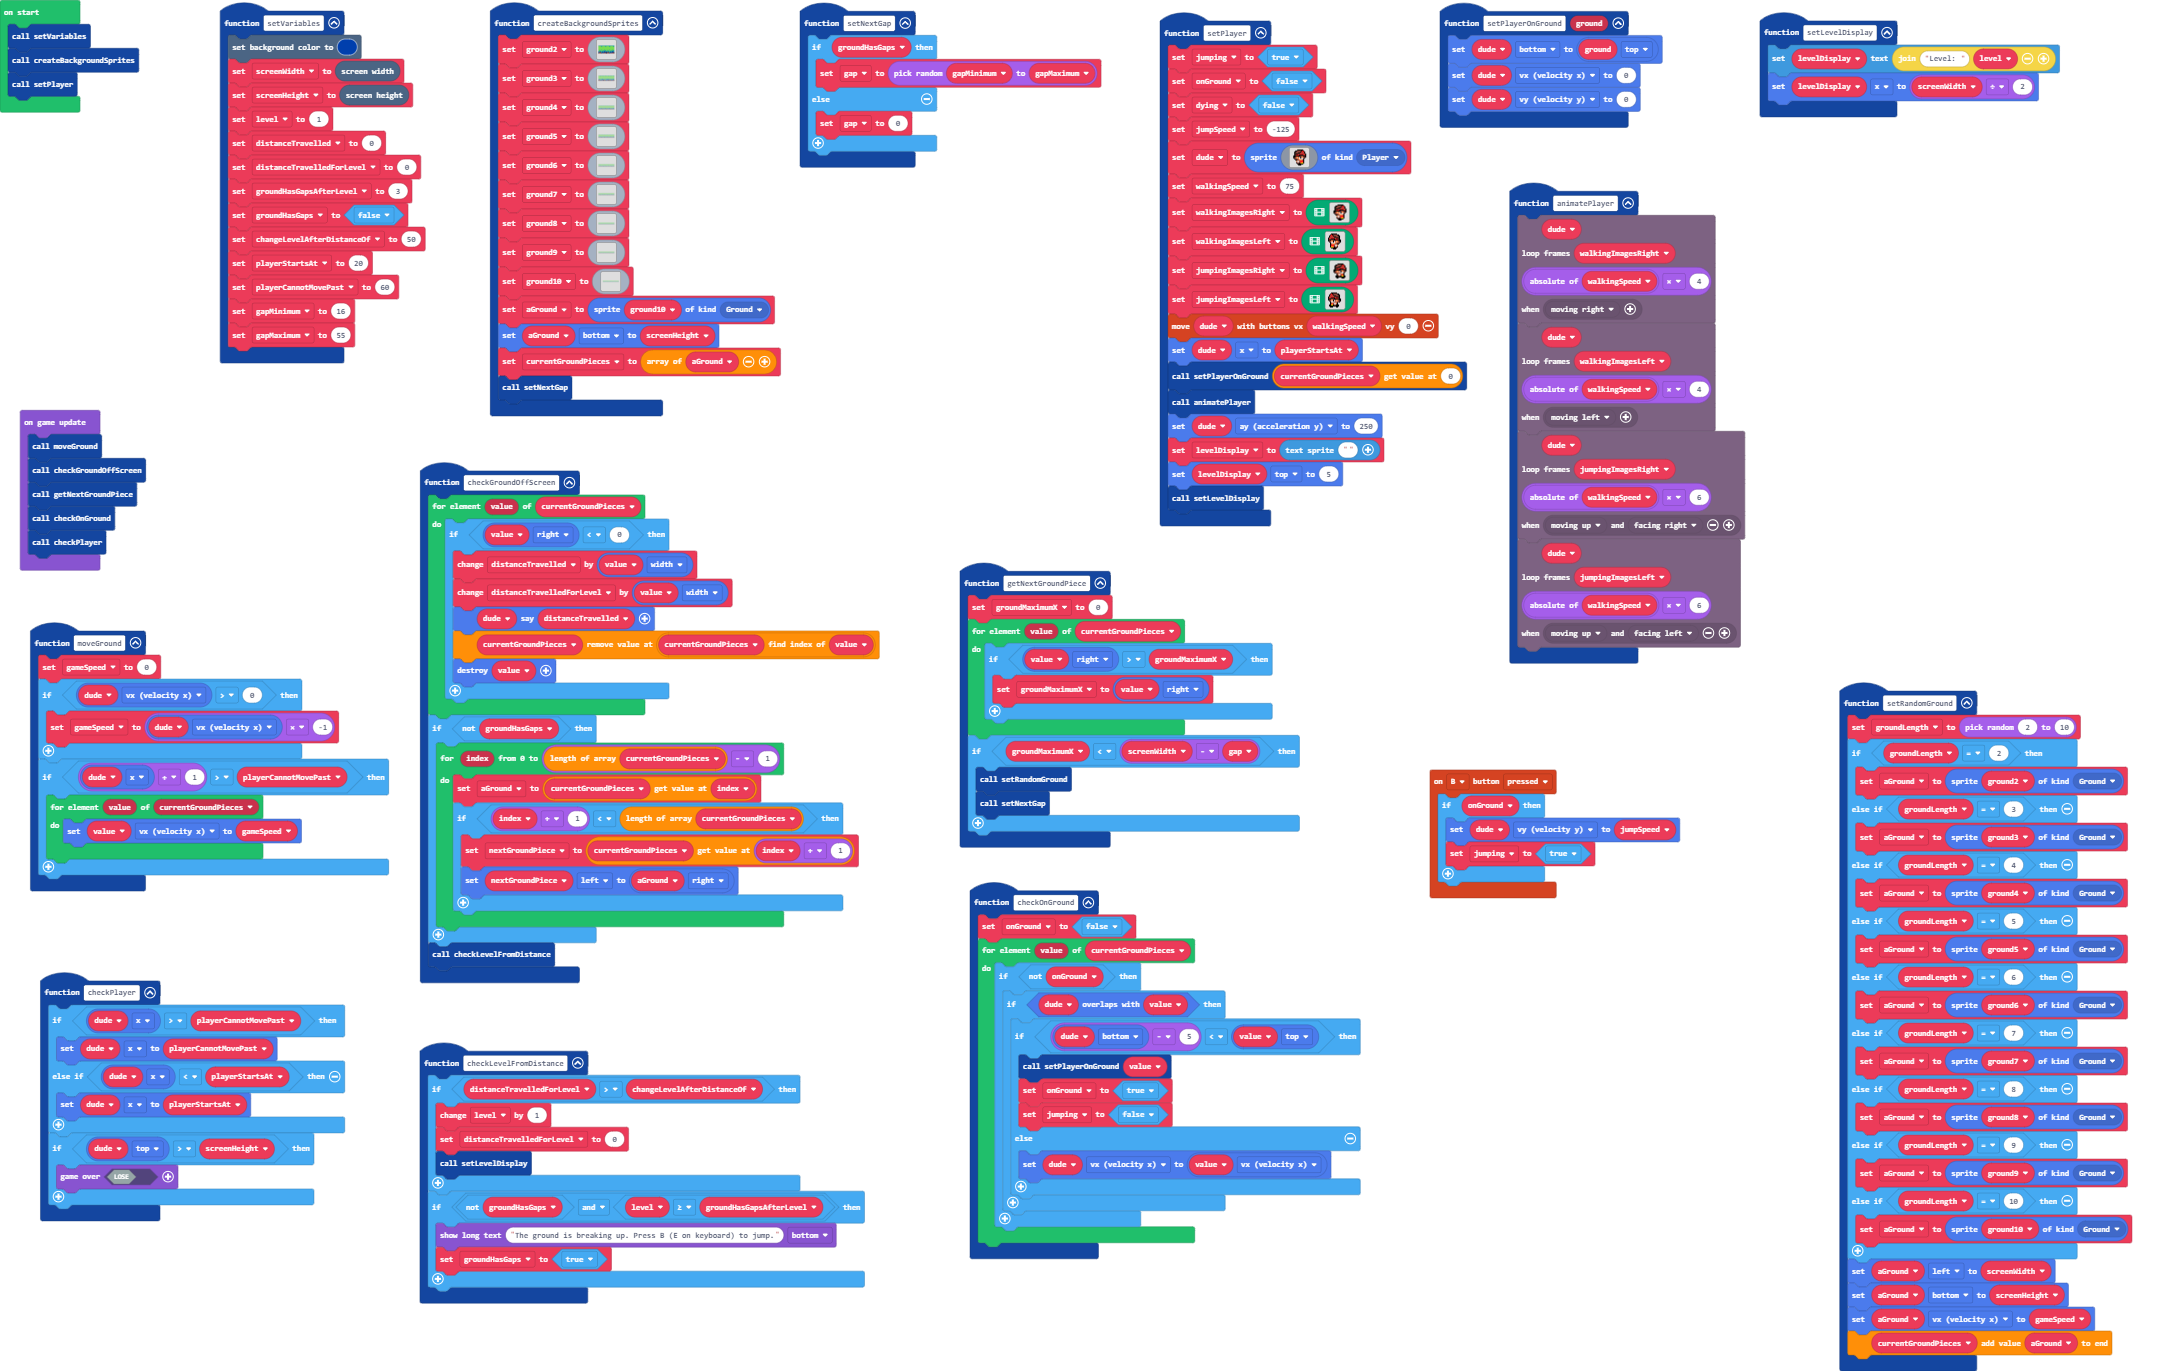
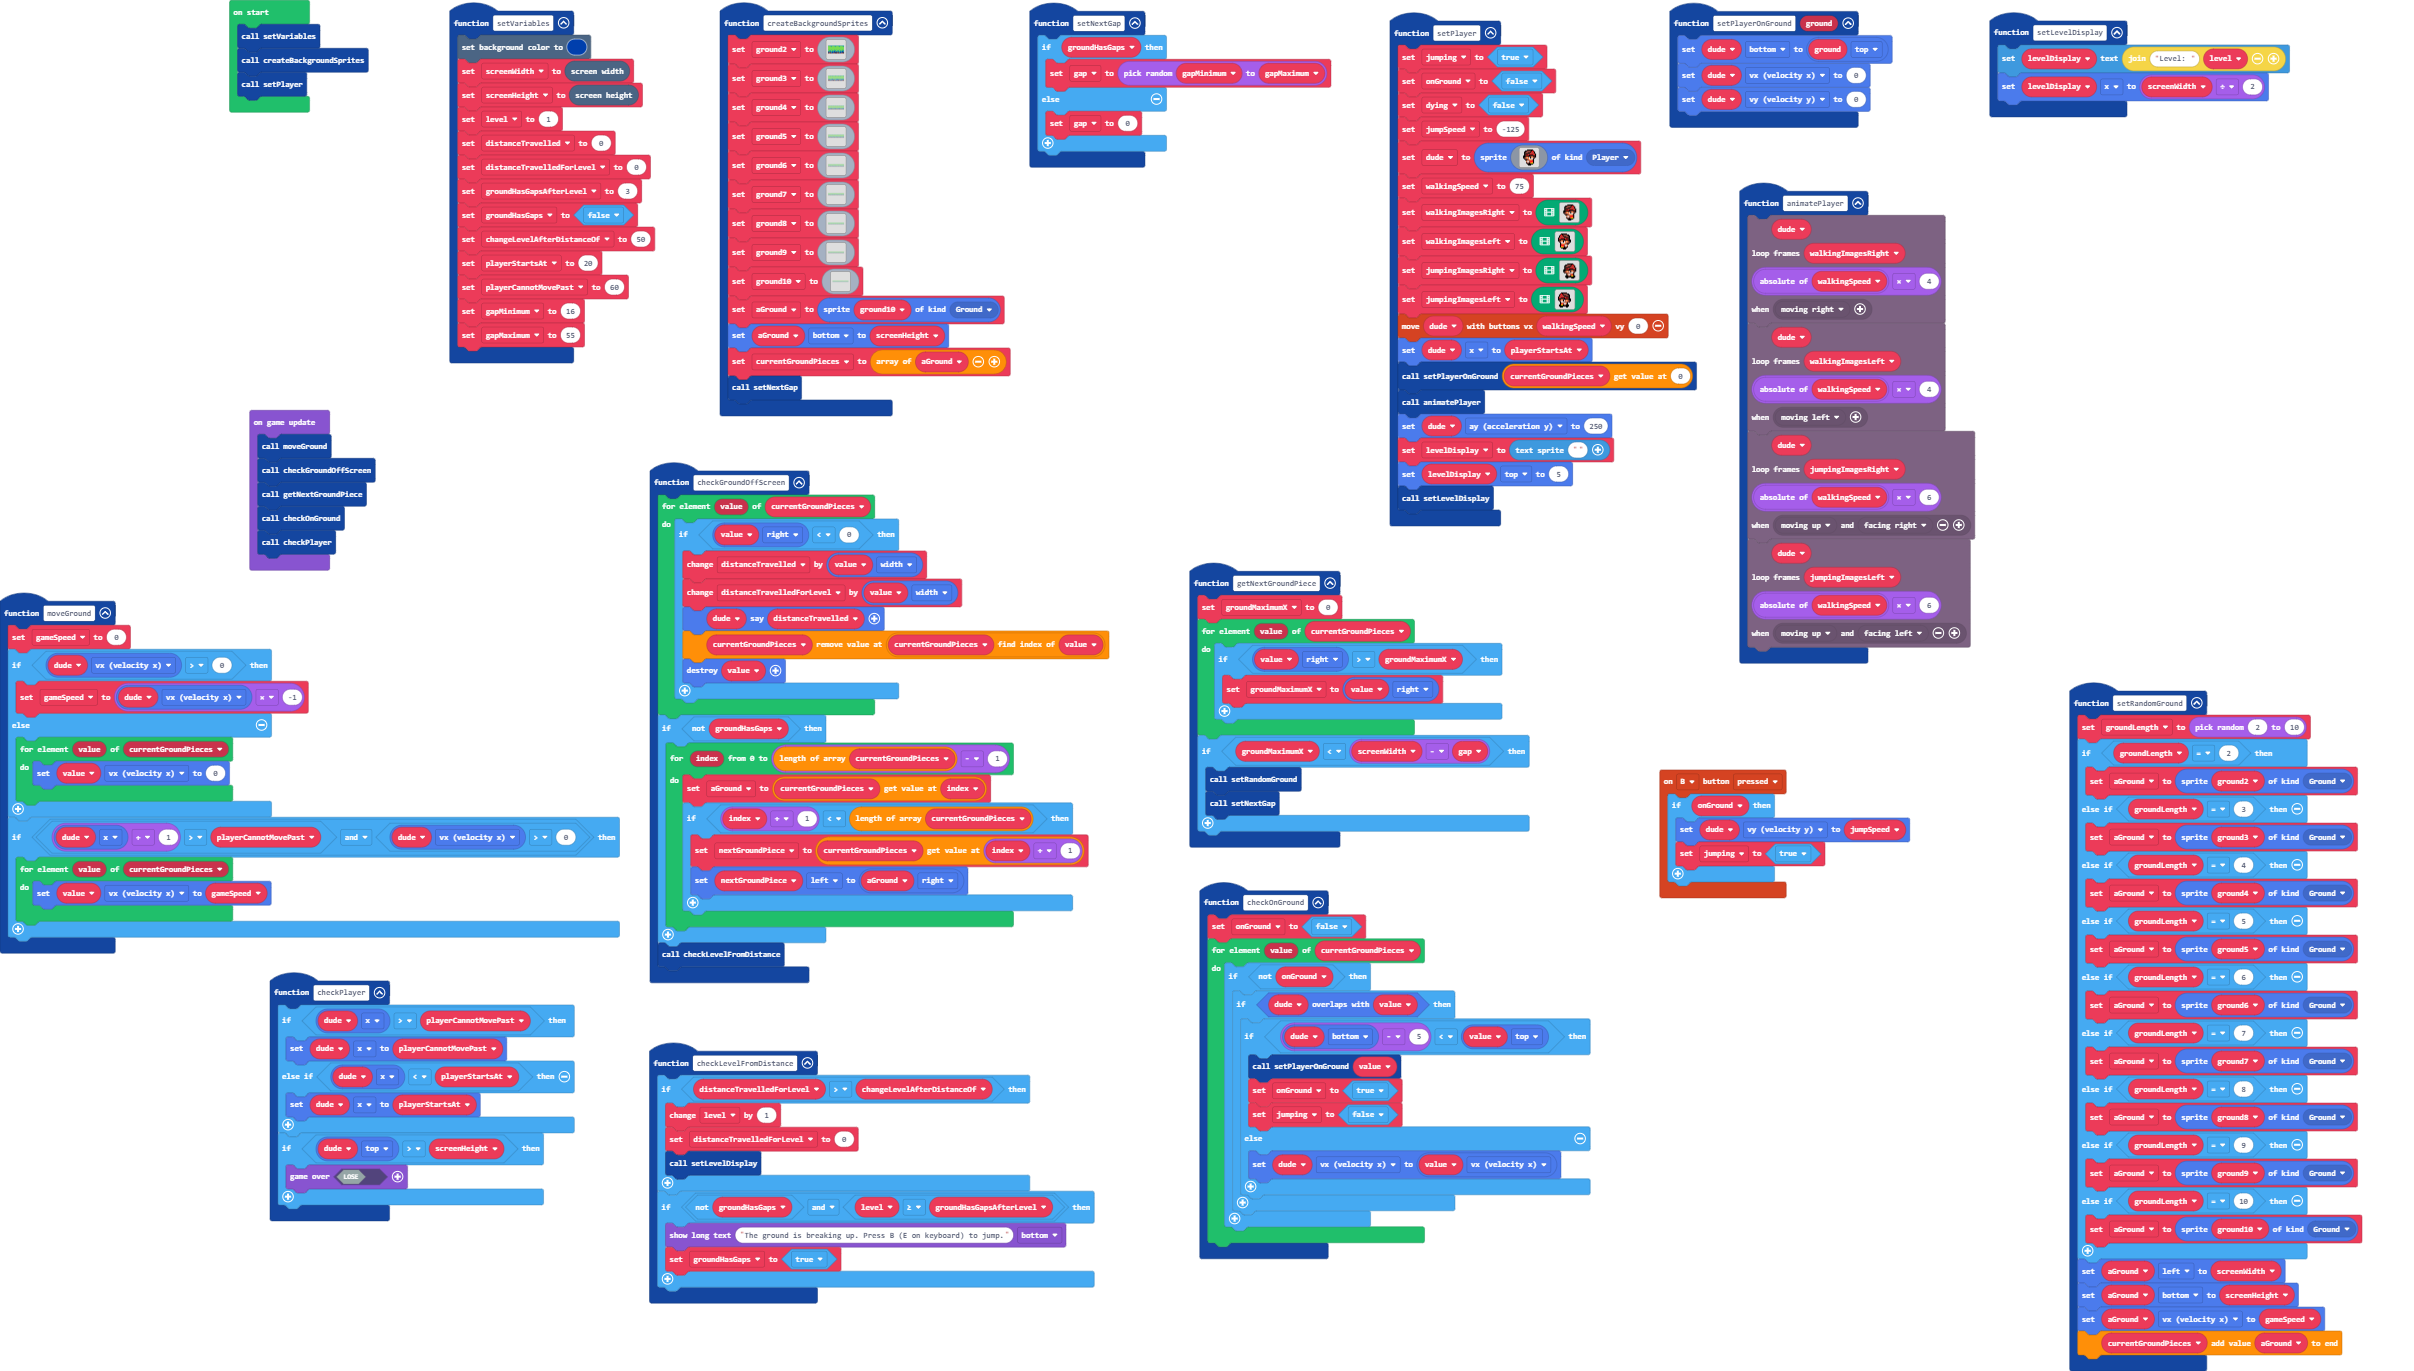
Fixed issue when moving back was still causing ground to move

diff --git a/main.ts b/main.ts
@@ -526,8 +526,12 @@ function moveGround () {
     gameSpeed = 0
     if (dude.vx > 0) {
         gameSpeed = dude.vx * -1
+    } else {
+        for (let value of currentGroundPieces) {
+            value.vx = 0
+        }
     }
-    if (dude.x + 1 > playerCannotMovePast) {
+    if (dude.x + 1 > playerCannotMovePast && dude.vx > 0) {
         for (let value of currentGroundPieces) {
             value.vx = gameSpeed
         }
